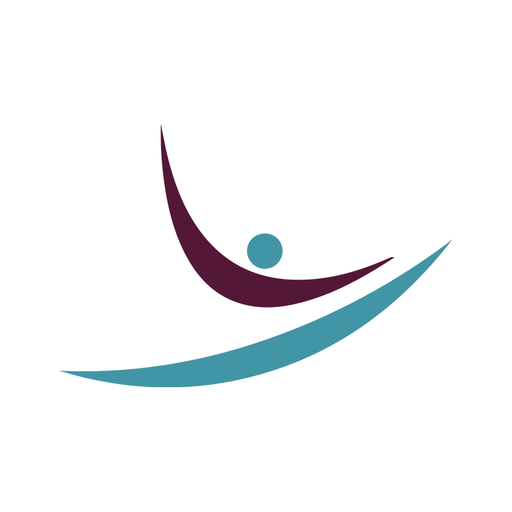
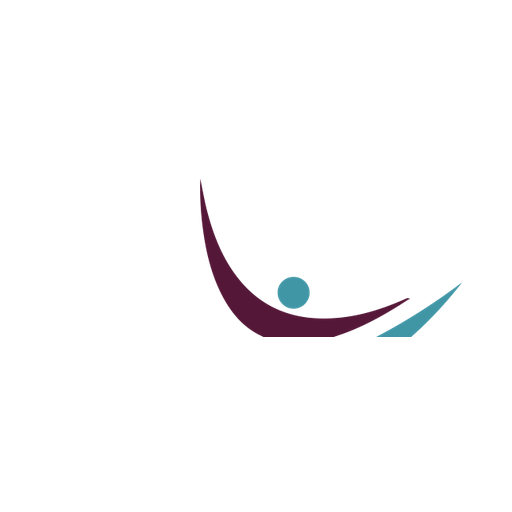
feat: isotipo como ícono PWA + splash screen limpio
- Reemplaza íconos cuadrados por el isotipo de Studio Dancers (morado + teal)
- Splash screen al abrir PWA usa fondo blanco (background_color: #ffffff)
- DanceLoader muestra logo.png real en lugar del SVG genérico
- Genera icon-192.png e icon-512.png recortando el isotipo del logo principal

Changed region(s): [[0.125, 0.25, 0.9062, 0.7812]]

diff --git a/src/components/Dashboard.jsx b/src/components/Dashboard.jsx
@@ -356,52 +356,19 @@ function SkeletonCard() {
 // ═══════ DANCE LOADING SCREEN ═══════
 function DanceLoader() {
   return (
-    <div className="min-h-screen bg-gradient-to-br from-[#fdf2f7] via-white to-[#fff0f5] flex flex-col items-center justify-center p-6">
-      {/* Ballet dancer silhouette animation */}
-      <div className="relative mb-8">
-        <div className="w-20 h-20 rounded-full bg-gradient-to-br from-[#e8b4cc] to-[#ffcfe0] flex items-center justify-center"
-          style={{ animation: 'dancerFloat 2s ease-in-out infinite' }}>
-          <svg width="44" height="44" viewBox="0 0 64 64" fill="none" xmlns="http://www.w3.org/2000/svg">
-            {/* Head */}
-            <circle cx="35" cy="9" r="4.5" stroke="#6b2145" strokeWidth="2.2"/>
-            {/* Hair bun */}
-            <circle cx="39.5" cy="6.5" r="2.2" stroke="#6b2145" strokeWidth="1.8"/>
-            {/* Ponytail */}
-            <path d="M41 5 C47 1 53 6 49 13" stroke="#6b2145" strokeWidth="1.8" strokeLinecap="round"/>
-            {/* Torso */}
-            <path d="M35 13.5 C34 17 33 21 32 25" stroke="#6b2145" strokeWidth="2.2" strokeLinecap="round"/>
-            {/* Tutu skirt */}
-            <path d="M19 27 C22 21 44 21 47 27 C50 33 44 37 32 36.5 C20 37 14 33 19 27Z" stroke="#6b2145" strokeWidth="2"/>
-            {/* Left arm raised up */}
-            <path d="M31 19 C27 15 22 11 17 9" stroke="#6b2145" strokeWidth="2.2" strokeLinecap="round"/>
-            {/* Right arm extended */}
-            <path d="M38 19 C43 20 50 19 54 17" stroke="#6b2145" strokeWidth="2.2" strokeLinecap="round"/>
-            {/* Left leg down */}
-            <path d="M28 36.5 C26 41 23 47 21 53" stroke="#6b2145" strokeWidth="2.2" strokeLinecap="round"/>
-            {/* Right leg arabesque */}
-            <path d="M36 36.5 C41 39 47 43 53 47" stroke="#6b2145" strokeWidth="2.2" strokeLinecap="round"/>
-            {/* Sparkle ✦ top-left (large) */}
-            <path d="M10 19 L12 25 L10 31 L8 25Z M5.5 25 L10 23.5 L14.5 25 L10 26.5Z" fill="#6b2145"/>
-            {/* Sparkle ✦ top-right (medium) */}
-            <path d="M53 10 L54.5 14.5 L53 19 L51.5 14.5Z M49 14.5 L53 13.2 L57 14.5 L53 15.8Z" fill="#6b2145"/>
-            {/* Sparkle ✦ bottom-left (small) */}
-            <path d="M8 47 L9.2 51 L8 55 L6.8 51Z M5 51 L8 50.2 L11 51 L8 51.8Z" fill="#6b2145"/>
-            {/* Sparkle ✦ bottom-right (medium) */}
-            <path d="M54 43 L55.4 47.5 L54 52 L52.6 47.5Z M51 47.5 L54 46.2 L57 47.5 L54 48.8Z" fill="#6b2145"/>
-          </svg>
-        </div>
-        {/* Rotating ring */}
-        <div className="absolute inset-0 w-20 h-20 rounded-full border-2 border-transparent border-t-[#9e4a72] border-r-[#ffcfe0]"
-          style={{ animation: 'pirouette 1.2s linear infinite' }} />
-      </div>
-
-      <p className="text-[#551735] font-semibold text-base mb-1">Cargando tu portal</p>
+    <div className="min-h-screen bg-white flex flex-col items-center justify-center p-6">
+      <img
+        src="/logo.png"
+        alt="Studio Dancers"
+        className="w-52 mb-10"
+        style={{ animation: 'dancerFloat 2.5s ease-in-out infinite' }}
+      />
       <div className="flex items-center gap-1.5">
         {[0, 1, 2].map(i => (
           <div
             key={i}
-            className="w-1.5 h-1.5 rounded-full bg-[#9e4a72]"
-            style={{ animation: `dotWave 1.4s ease-in-out ${i * 0.16}s infinite` }}
+            className="w-2 h-2 rounded-full bg-[#551735]"
+            style={{ animation: `dotWave 1.4s ease-in-out ${i * 0.2}s infinite` }}
           />
         ))}
       </div>

diff --git a/vite.config.js b/vite.config.js
@@ -21,7 +21,7 @@ export default defineConfig({
         description: 'Portal de pagos para alumnos y representantes',
         start_url: '/',
         display: 'standalone',
-        background_color: '#551735',
+        background_color: '#ffffff',
         theme_color: '#551735',
         orientation: 'portrait',
         icons: [
